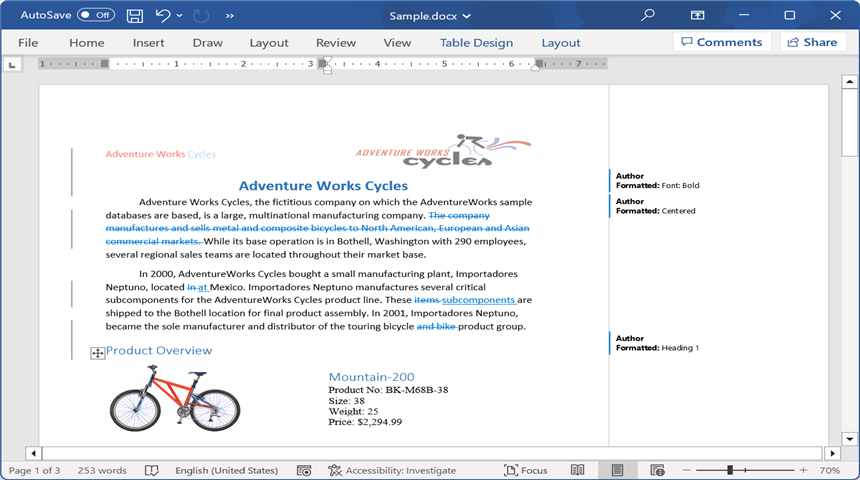
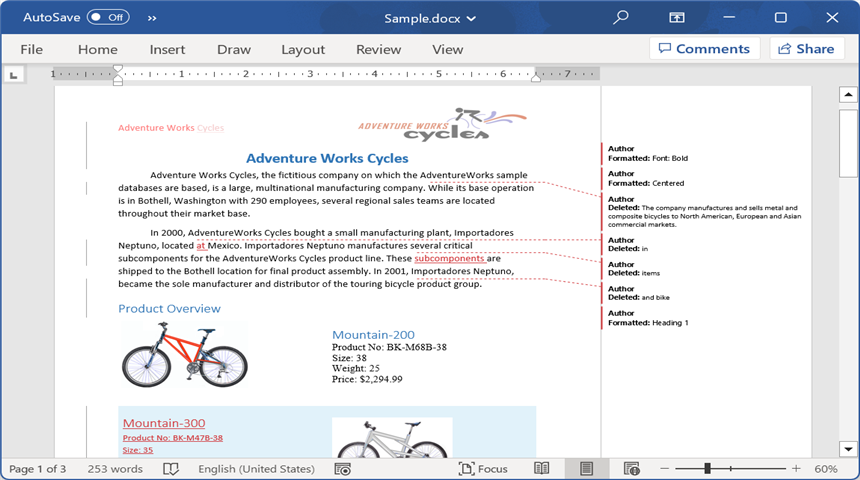
ES-849698-Compare-Word-Documents-Dev

Changed region(s): [[0.0, 0.0, 1.0, 1.0], [0.1209, 0.25, 0.2419, 0.2812], [0.9977, 0.0, 1.0, 0.0312]]

diff --git a/java-file-formats/word-library/word-document/compare-word-documents.md b/java-file-formats/word-library/word-document/compare-word-documents.md
@@ -1,0 +1,109 @@
+---
+title: Compare Word Documents | DocIO | Syncfusion
+description: Learn how to compare two Word documents using Java Word (DocIO) library without Microsoft Word or interop dependencies.
+platform: java-file-formats
+control: Word library
+documentation: UG
+---
+# Compare Word documents
+
+Comparing two Word documents allows you to identify the changes between two versions of a document. The Java Word library (DocIO) enables you to compare two Word documents and highlight the following changes as tracked changes.
+
+* Insertions
+* Deletions
+* Formatting
+
+N> 1. DocIO performs word level comparison while comparing two Word documents. In this scenario, if a single character in a word is changed, the entire word will be highlighted as changed.
+N> 2. Comparing two Word documents supported in DOCX format only.
+
+## Compare two Word documents 
+
+Compare the existing Word documents or documents created from scratch using the ``Compare`` method in the Java Word library (DocIO).
+
+The following code example illustrates how to compare two Word documents.
+
+{% tabs %}
+{% highlight JAVA %}
+//Load the original document.
+WordDocument originalDocument = new WordDocument("OriginalDocument.docx", FormatType.Docx);
+
+//Load the revised document.
+WordDocument revisedDocument = new WordDocument("RevisedDocument.docx", FormatType.Docx);
+
+//Compare the original document with the revised document.
+originalDocument.compare(revisedDocument);
+
+//Save the word document.
+originalDocument.save("Sample.docx");
+
+//Close the word documents.
+originalDocument.close();
+revisedDocument.close();
+{% endhighlight %}
+{% endtabs %}
+
+![Compare Word documents in Java](../WorkingwithWordDocument_images/Compare-Word-documents-without-author.png)
+
+## Set Author and Date 
+
+Compare the two Word documents by setting the author and date for revisions to identify the changes. In DocIO, the default setting for the “author” field is “Author”, and the default setting for the “dateTime” field is the current time.
+
+The following code example shows how to set the author and date for revision while comparing two Word documents.
+
+{% tabs %}
+{% highlight JAVA %}
+//Load the original document.
+WordDocument originalDocument = new WordDocument("OriginalDocument.docx", FormatType.Docx);
+
+//Load the revised document.
+WordDocument revisedDocument = new WordDocument("RevisedDocument.docx", FormatType.Docx);
+
+//Compare the original document with the revised document.
+originalDocument.compare(revisedDocument, "Nancy Davolio", LocalDateTime.now().minusDays(1));
+
+//Save the word document.
+originalDocument.save("Sample.docx");
+
+//Close the word documents.
+originalDocument.close();
+revisedDocument.close();
+{% endhighlight %}
+{% endtabs %}
+
+![Compare Word documents in Java](../WorkingwithWordDocument_images/Compare-Word-documents.png)
+
+## Comparison options
+
+You can customize the Word comparison using our ``ComparisonOptions`` in the DocIO.
+
+### Ignore format changes
+
+In the Java Word library (DocIO), document comparison includes formatting changes by default. However, you can configure DocIO to ignore formatting differences using the ``setDetectFormatChanges`` API to concentrate solely on content modifications.
+
+The following code example illustrates how to compare two Word documents by ignoring the format changes.
+
+{% tabs %}
+{% highlight JAVA %}
+//Load the original document.
+WordDocument originalDocument = new WordDocument("OriginalDocument.docx", FormatType.Docx);
+
+//Load the revised document.
+WordDocument revisedDocument = new WordDocument("RevisedDocument.docx", FormatType.Docx);
+
+//Set the Comparison option detect format changes, whether to detect format changes while comparing two Word documents.
+ComparisonOptions compareOptions = new ComparisonOptions();
+compareOptions.setDetectFormatChanges(false);
+
+//Compare the original document with the revised document.
+originalDocument.compare(revisedDocument, "Nancy Davolio", LocalDateTime.now(), compareOptions);
+
+//Save the word document.
+originalDocument.save("Sample.docx");
+
+//Close the word documents.
+originalDocument.close();
+revisedDocument.close();
+{% endhighlight %}
+{% endtabs %}
+
+![Compare Word documents by ignoring format changes](../WorkingwithWordDocument_images/Ignore-format-changes.png)
